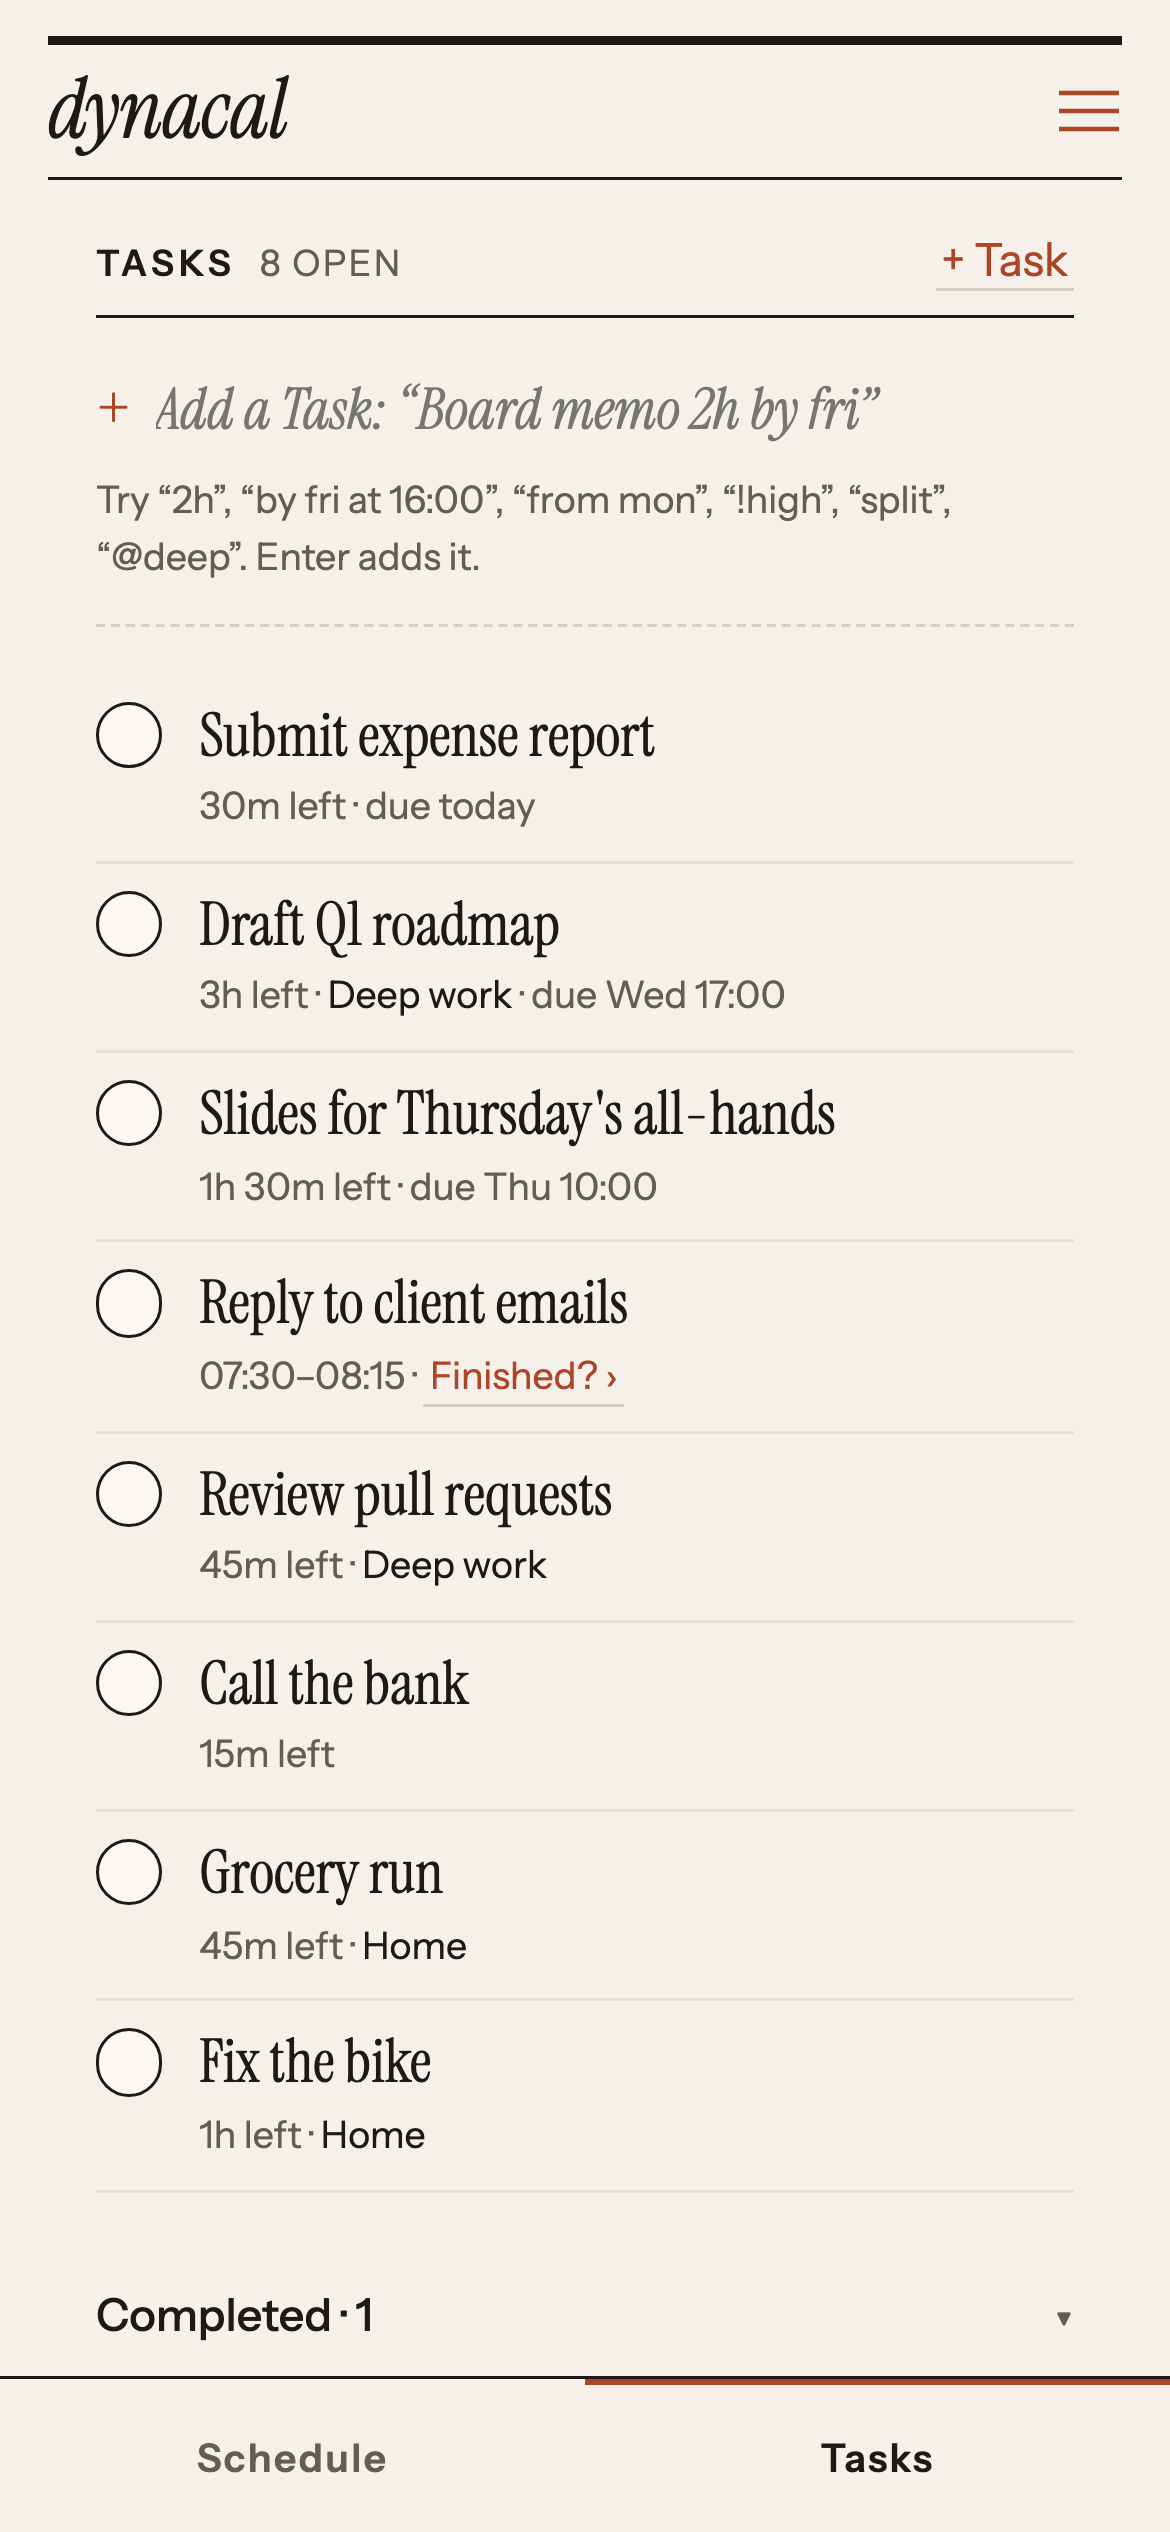
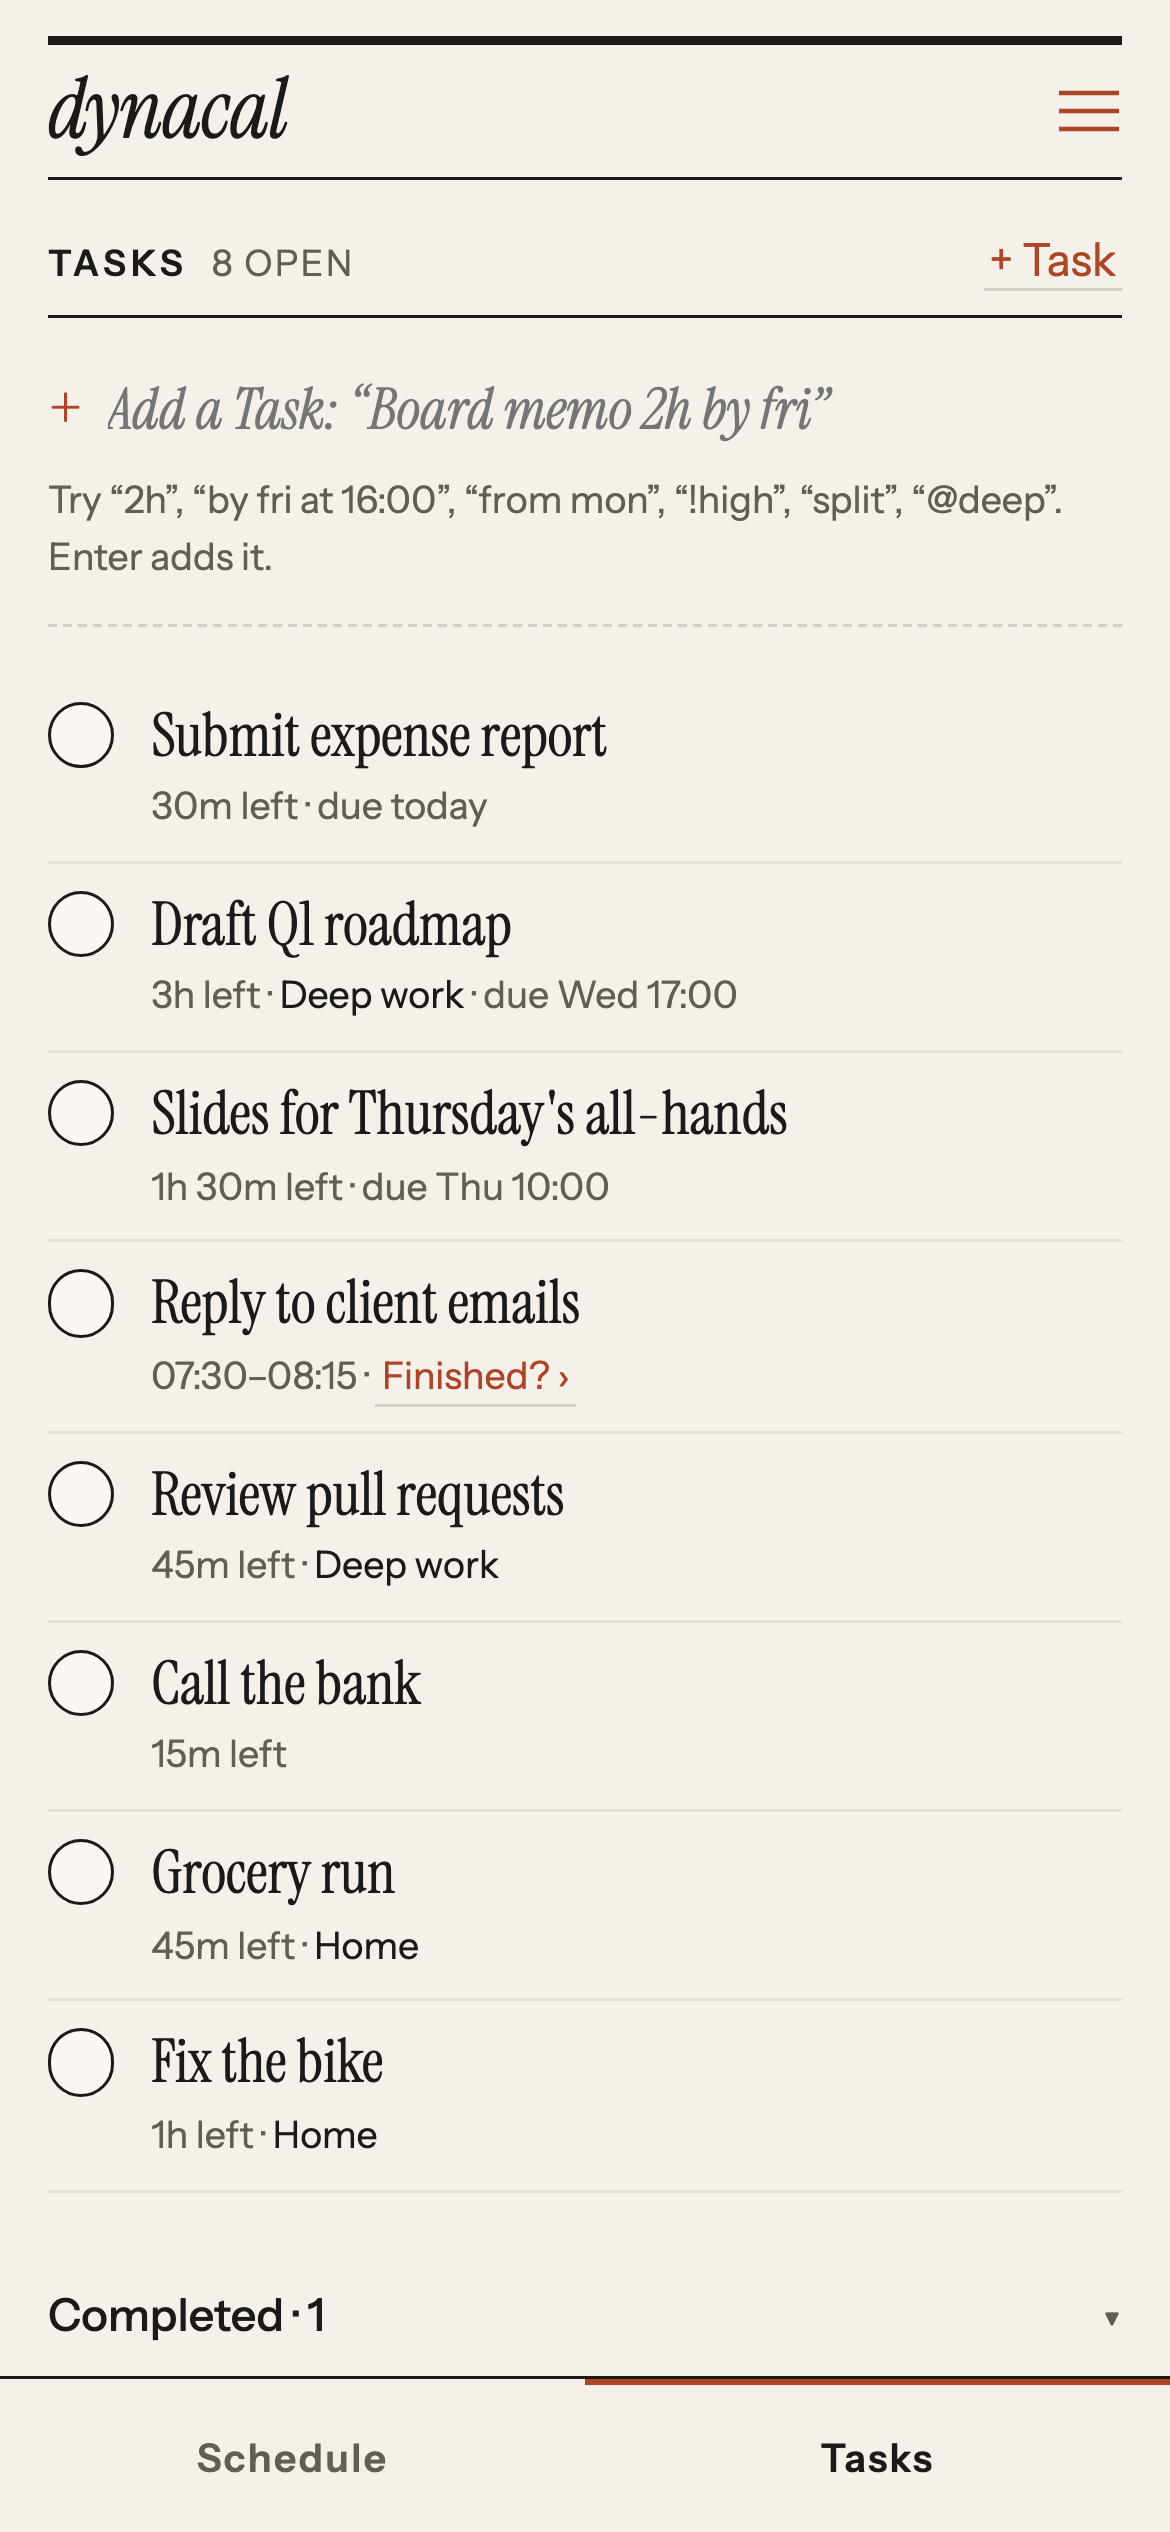
Fit short Tasks and Events, line up the phone Task List, and keep the squiggle under the date
- On the computer Schedule, anything under about 25 minutes sets its title
  smaller and centred, with a smaller tick, instead of cutting it off.
- On a phone, the Task List uses the page's margins, like the Schedule.
- Today's squiggle sits under the date's number only, clear of the day's name.
- No people's names in tests or sample data.

Screenshots retaken.

diff --git a/src/app/schedule/calendar.tsx b/src/app/schedule/calendar.tsx
@@ -68,6 +68,8 @@ const HOUR_PX = 48;
  * position, the tooltip and the details label still give the time.
  */
 const TWO_LINE_PX = 36;
+/** Below this height (under about 25 minutes) even one title line at full size is cut off, so it's set smaller. */
+const ONE_LINE_PX = 20;
 
 /** Long enough for a landing's longest part, the drop's flash (--rise). */
 const LANDING_MS = 900;
@@ -628,11 +630,12 @@ export function Calendar({
                   `${event.title}, ${formatMinutes(top)}–${formatMinutes(bottom)} (Event${eventNotes(event)})`,
                 );
                 const compact = px(bottom) - px(top) < TWO_LINE_PX;
+                const tiny = px(bottom) - px(top) < ONE_LINE_PX;
                 return (
                   <div
                     key={`${event.id}-${day}`}
                     {...props}
-                    className={`event ${props.className}${compact ? " compact" : ""}`}
+                    className={`event ${props.className}${compact ? " compact" : ""}${tiny ? " tiny" : ""}`}
                     style={{ top: px(top), height: px(bottom) - px(top) }}
                   >
                     <span className="block-title">
@@ -659,6 +662,7 @@ export function Calendar({
                 const glide = glideOrder.get(block.displayKey);
                 const landed = landing?.id === block.id ? landing.kind : null;
                 const compact = px(bottom) - px(top) < TWO_LINE_PX;
+                const tiny = px(bottom) - px(top) < ONE_LINE_PX;
                 const classes = [
                   "block",
                   overEvent && detailStyles.besideEvent,
@@ -671,6 +675,7 @@ export function Calendar({
                   glide !== undefined && styles.glide,
                   completedTasks.has(block.taskId) && styles.done,
                   compact && "compact",
+                  tiny && "tiny",
                 ].filter(Boolean);
                 // Only a Block's first part carries its name: a name must be unique on the page.
                 const first = toZoned(new Date(block.start), timeZone).date === day;

diff --git a/src/app/tasks/move-off-today.test.tsx b/src/app/tasks/move-off-today.test.tsx
@@ -165,8 +165,8 @@ describe("Move off today", () => {
 describe("choosing what moves", () => {
   const twoAndAPin = () =>
     renderPhone(
-      [taskItem({ id: "t1", title: "Board memo" }), taskItem({ id: "t2", title: "Call Sam" }), taskItem({ id: "t3", title: "Pinned one" })],
-      [at("t1", "Board memo", "15:00", "16:00"), at("t2", "Call Sam", "16:00", "16:30"), at("t3", "Pinned one", "17:00", "17:30", true)],
+      [taskItem({ id: "t1", title: "Board memo" }), taskItem({ id: "t2", title: "Call the plumber" }), taskItem({ id: "t3", title: "Pinned one" })],
+      [at("t1", "Board memo", "15:00", "16:00"), at("t2", "Call the plumber", "16:00", "16:30"), at("t3", "Pinned one", "17:00", "17:30", true)],
     );
 
   it("counts the ticks on the button as they change", async () => {
@@ -231,10 +231,10 @@ describe("moving", () => {
     renderPhone(
       [
         taskItem({ id: "t1", title: "Board memo" }),
-        taskItem({ id: "t2", title: "Call Sam" }),
+        taskItem({ id: "t2", title: "Call the plumber" }),
         taskItem({ id: "t3", title: "File invoices", deadline: { date: "2026-10-27", time: null } }),
       ],
-      [at("t1", "Board memo", "15:00", "16:00"), at("t2", "Call Sam", "16:00", "16:30"), at("t3", "File invoices", "17:00", "17:30")],
+      [at("t1", "Board memo", "15:00", "16:00"), at("t2", "Call the plumber", "16:00", "16:30"), at("t3", "File invoices", "17:00", "17:30")],
     );
   /** Where a moved Task ends up: the given day at 09:00. */
   const on = (id: string, date: string) => ({ id, nextStart: new Date(`${date}T09:00:00.000Z`) });
@@ -295,7 +295,7 @@ describe("moving", () => {
     vi.mocked(moveTasksToDay).mockResolvedValue(result);
     threeToday();
     await openList();
-    if ("moved" in result && result.moved.length === 1) await userEvent.click(row(/Call Sam/));
+    if ("moved" in result && result.moved.length === 1) await userEvent.click(row(/Call the plumber/));
 
     await userEvent.click(button(/^Move \d to tomorrow$/));
 

diff --git a/src/app/tasks/task-screen.test.tsx b/src/app/tasks/task-screen.test.tsx
@@ -411,11 +411,11 @@ describe("the More section", () => {
     const editor = await openScreen();
 
     await userEvent.click(more(editor));
-    await userEvent.type(editor.getByRole("textbox", { name: "Notes" }), "Ask Sam");
+    await userEvent.type(editor.getByRole("textbox", { name: "Notes" }), "Ask the team");
     await userEvent.click(more(editor));
 
     expect(more(editor).textContent).toBe("More · Notes");
-    expect(await saved(editor)).toEqual(expect.objectContaining({ notes: "Ask Sam" }));
+    expect(await saved(editor)).toEqual(expect.objectContaining({ notes: "Ask the team" }));
   });
 
   it("closes an open line, as only one thing is open at a time", async () => {
@@ -958,7 +958,7 @@ describe("the When line", () => {
               {
                 id: "event-1",
                 ref: { calendarId: "work", eventId: "event-1" },
-                title: "Lunch with Sam",
+                title: "Team lunch",
                 calendarName: "Work",
                 allDay: false,
                 start: "2026-10-27T15:00:00.000Z",
@@ -978,7 +978,7 @@ describe("the When line", () => {
     const editor = await openScreen();
     await userEvent.click(editor.getByRole("button", { name: /^When, / }));
 
-    expect(screen.getByRole("alert").textContent).toContain("Lunch with Sam");
+    expect(screen.getByRole("alert").textContent).toContain("Team lunch");
   });
 
   it("a Task moved with Tomorrow keeps its new Earliest Start when what's typed is saved", async () => {

diff --git a/src/app/home/phone/block-sheet.test.tsx b/src/app/home/phone/block-sheet.test.tsx
@@ -36,7 +36,7 @@ const block: CalendarBlock = {
 const lunch: CalendarEvent = {
   id: "event-1",
   ref: { calendarId: "work", eventId: "event-1" },
-  title: "Lunch with Sam",
+  title: "Team lunch",
   calendarName: "Work",
   allDay: false,
   start: "2026-10-27T11:00:00.000Z",
@@ -153,13 +153,13 @@ describe("the Block sheet on a phone", () => {
   });
 
   it("leaves the Task where it was and says why when the move is refused", async () => {
-    vi.mocked(moveBlock).mockResolvedValue({ ok: false, errors: { block: "That would overlap Lunch with Sam." } });
+    vi.mocked(moveBlock).mockResolvedValue({ ok: false, errors: { block: "That would overlap Team lunch." } });
     const onClose = renderSheet();
 
     await openMove();
     await userEvent.click(screen.getByRole("button", { name: "−15m" }));
 
-    await waitFor(() => expect(screen.getByText("That would overlap Lunch with Sam.")).toBeTruthy());
+    await waitFor(() => expect(screen.getByText("That would overlap Team lunch.")).toBeTruthy());
     expect(onClose).not.toHaveBeenCalled();
   });
 
@@ -219,7 +219,7 @@ describe("the Block sheet on a phone", () => {
       </WithTaskList>,
     );
 
-    expect(screen.getByRole("alert").textContent).toContain("Lunch with Sam");
+    expect(screen.getByRole("alert").textContent).toContain("Team lunch");
   });
 
   it("completes the Task with Done and closes", async () => {

diff --git a/src/app/schedule/desktop-label.test.tsx b/src/app/schedule/desktop-label.test.tsx
@@ -19,7 +19,7 @@ const block: CalendarBlock = {
   start: "2026-10-27T10:00:00.000Z", end: "2026-10-27T12:00:00.000Z", pinned: false,
 };
 const event: CalendarEvent = {
-  id: "event-1", ref: { calendarId: "work", eventId: "event-1" }, title: "Lunch with Sam",
+  id: "event-1", ref: { calendarId: "work", eventId: "event-1" }, title: "Team lunch",
   calendarName: "Work", allDay: false, start: "2026-10-27T13:00:00.000Z", end: "2026-10-27T14:00:00.000Z",
   free: false, countsAsBusy: true, busyOverride: null,
 };
@@ -122,11 +122,11 @@ describe("desktop Block label", () => {
   });
 
   it("shows a refused move and stays open", async () => {
-    vi.mocked(moveBlock).mockResolvedValue({ ok: false, errors: { block: "That would overlap Lunch with Sam." } });
+    vi.mocked(moveBlock).mockResolvedValue({ ok: false, errors: { block: "That would overlap Team lunch." } });
     const close = renderBlock();
     await userEvent.click(screen.getByRole("button", { name: "Move" }));
     await userEvent.click(screen.getByRole("button", { name: "+15m" }));
-    expect((await screen.findByRole("alert")).textContent).toBe("That would overlap Lunch with Sam.");
+    expect((await screen.findByRole("alert")).textContent).toBe("That would overlap Team lunch.");
     expect(close).not.toHaveBeenCalled();
   });
 

diff --git a/src/app/speaks-in-tasks.test.tsx b/src/app/speaks-in-tasks.test.tsx
@@ -42,7 +42,7 @@ vi.mock("./settings/actions", () => ({
 }));
 
 // Now is Tuesday 27 October 2026, 14:00 London time. "Pack for vegas" was at 10:30 and waits for a Check-in;
-// "Print mystery machine" was at 08:00 and is answered; "Board memo" is pinned at 15:00, over Lunch with Sam.
+// "Print mystery machine" was at 08:00 and is answered; "Board memo" is pinned at 15:00, over Team lunch.
 const work = { id: "work", name: "Work", windows: DEFAULT_WINDOWS, isDefault: true };
 const NOW = "2026-10-27T14:00:00.000Z";
 const horizon = { start: NOW, end: "2026-11-10T14:00:00.000Z" };
@@ -59,7 +59,7 @@ const pinned: CalendarBlock = {
   start: "2026-10-27T15:00:00.000Z", end: "2026-10-27T16:00:00.000Z", pinned: true,
 };
 const lunch: CalendarEvent = {
-  id: "event-1", ref: { calendarId: "work", eventId: "event-1" }, title: "Lunch with Sam",
+  id: "event-1", ref: { calendarId: "work", eventId: "event-1" }, title: "Team lunch",
   calendarName: "Work", allDay: false, start: "2026-10-27T15:30:00.000Z", end: "2026-10-27T16:30:00.000Z",
   free: false, countsAsBusy: true, busyOverride: null,
 };

diff --git a/src/app/home/phone/phone.module.css b/src/app/home/phone/phone.module.css
@@ -155,6 +155,7 @@
 }
 
 .dayNumber {
+  position: relative;
   font: 30px / 1 var(--font-serif);
   letter-spacing: 0;
 }
@@ -163,11 +164,12 @@
   color: var(--accent);
 }
 
+/* Under the date's number only, as wide as it, so it never runs under the day's name. */
 .daySquiggle {
   position: absolute;
-  left: 0;
-  bottom: -4px;
-  width: 30px;
+  left: -2px;
+  bottom: -5px;
+  width: calc(100% + 4px);
   height: 6px;
   /* The squiggle's units are half as tall as this one, so a 2.5px line is 5 of them. */
   --squiggle-stroke: 5;
@@ -298,6 +300,12 @@
  * A tab that isn't showing stays laid out but unseen and unreachable. Hidden with display: none, its animations would
  * start again each time it came back, so a Task ticked long ago would look as if it had just been ticked.
  */
+/* The Task List lines up with the Schedule, at the page's own margins. */
+.tabPanel > :global(.task-panel) {
+  padding-inline: 0;
+  border-bottom: 0;
+}
+
 .tabPanel[hidden] {
   display: block;
   position: absolute;

diff --git a/browser-tests/test-runtime.ts b/browser-tests/test-runtime.ts
@@ -81,9 +81,9 @@ function seedShowcase(commands: ReturnType<typeof createCommands>, clock: FakeCl
   const meetings: [string, string, string, string][] = [
     ["standup-mon", "Team stand-up", "2026-01-05T09:30", "2026-01-05T09:45"],
     ["review", "Design review", "2026-01-05T11:30", "2026-01-05T12:30"],
-    ["lunch", "Lunch with Priya", "2026-01-05T12:30", "2026-01-05T13:30"],
+    ["lunch", "Team lunch", "2026-01-05T12:30", "2026-01-05T13:30"],
     ["standup-tue", "Team stand-up", "2026-01-06T09:30", "2026-01-06T09:45"],
-    ["one-to-one", "1:1 with Sam", "2026-01-06T14:00", "2026-01-06T14:30"],
+    ["one-to-one", "Planning meeting", "2026-01-06T14:00", "2026-01-06T14:30"],
     ["dentist", "Dentist", "2026-01-07T16:00", "2026-01-07T17:00"],
   ];
   for (const [, title, startAt, endAt] of meetings) {

diff --git a/browser-tests/calendar-layout.spec.ts b/browser-tests/calendar-layout.spec.ts
@@ -35,8 +35,8 @@ test("adds nothing when an empty spot on the calendar is clicked", async ({ brow
 
 test("gives a 30-minute Block's whole line to its title on desktop", async ({ browser }) => {
   await withApp(browser, async (page) => {
-    await addTask(page, "Quick call with Priya about the Q4 plan 30m");
-    const block = page.getByRole("button", { name: /^Quick call with Priya about the Q4 plan, 09:00–09:30/ });
+    await addTask(page, "Quick call with the agency about the Q4 plan 30m");
+    const block = page.getByRole("button", { name: /^Quick call with the agency about the Q4 plan, 09:00–09:30/ });
     await expect(block).toBeVisible();
     await expectReadable(block, ".block-title");
     // Too short for two lines: the time is left to the grid position, the tooltip and the details label.

diff --git a/src/app/tasks/deadline-question.test.tsx b/src/app/tasks/deadline-question.test.tsx
@@ -69,12 +69,12 @@ describe("the deadline question", () => {
   });
 
   it("asks one question covering several Tasks, naming each", async () => {
-    await ask(dueOn("2026-10-27"), dueOn("2026-10-28", null, "Call Sam"));
+    await ask(dueOn("2026-10-27"), dueOn("2026-10-28", null, "Call the plumber"));
 
     const question = screen.getByRole("alertdialog", { name: "2 Tasks due earlier. Move the due dates too?" });
     expect(within(question).getAllByRole("listitem").map((i) => i.textContent)).toEqual([
       "Write report, due today",
-      "Call Sam, due tomorrow",
+      "Call the plumber, due tomorrow",
     ]);
   });
 

diff --git a/src/app/home/phone/phone-schedule.tsx b/src/app/home/phone/phone-schedule.tsx
@@ -49,8 +49,11 @@ function DayHeading({ date, today, action }: { date: string; today: boolean; act
   return (
     <div className={styles.dayHead}>
       <h3 className={styles.dayHeading} data-today={today}>
-        <span className={styles.dayNumber}>{dateParts(date).day}</span> {weekdayName(date)}
-        {today && <Squiggle waves={3} className={styles.daySquiggle} />}
+        <span className={styles.dayNumber}>
+          {dateParts(date).day}
+          {today && <Squiggle waves={2} className={styles.daySquiggle} />}
+        </span>{" "}
+        {weekdayName(date)}
       </h3>
       {action}
     </div>

diff --git a/src/app/globals.css b/src/app/globals.css
@@ -502,6 +502,19 @@ input[type="checkbox"]:disabled {
   padding-bottom: 0;
 }
 
+/* Shorter still (a 15-minute Task or Event), the title is set smaller and centred in the height there is. */
+.block.tiny,
+.event.tiny {
+  justify-content: center;
+  padding-top: 0;
+}
+
+.block.tiny .block-title,
+.event.tiny .block-title {
+  font-size: var(--text-kicker);
+  line-height: 1;
+}
+
 /* Events: read-only busy time from Busy Calendars, drawn on card with a thin ink edge so they read differently from Blocks. */
 .event {
   position: absolute;
